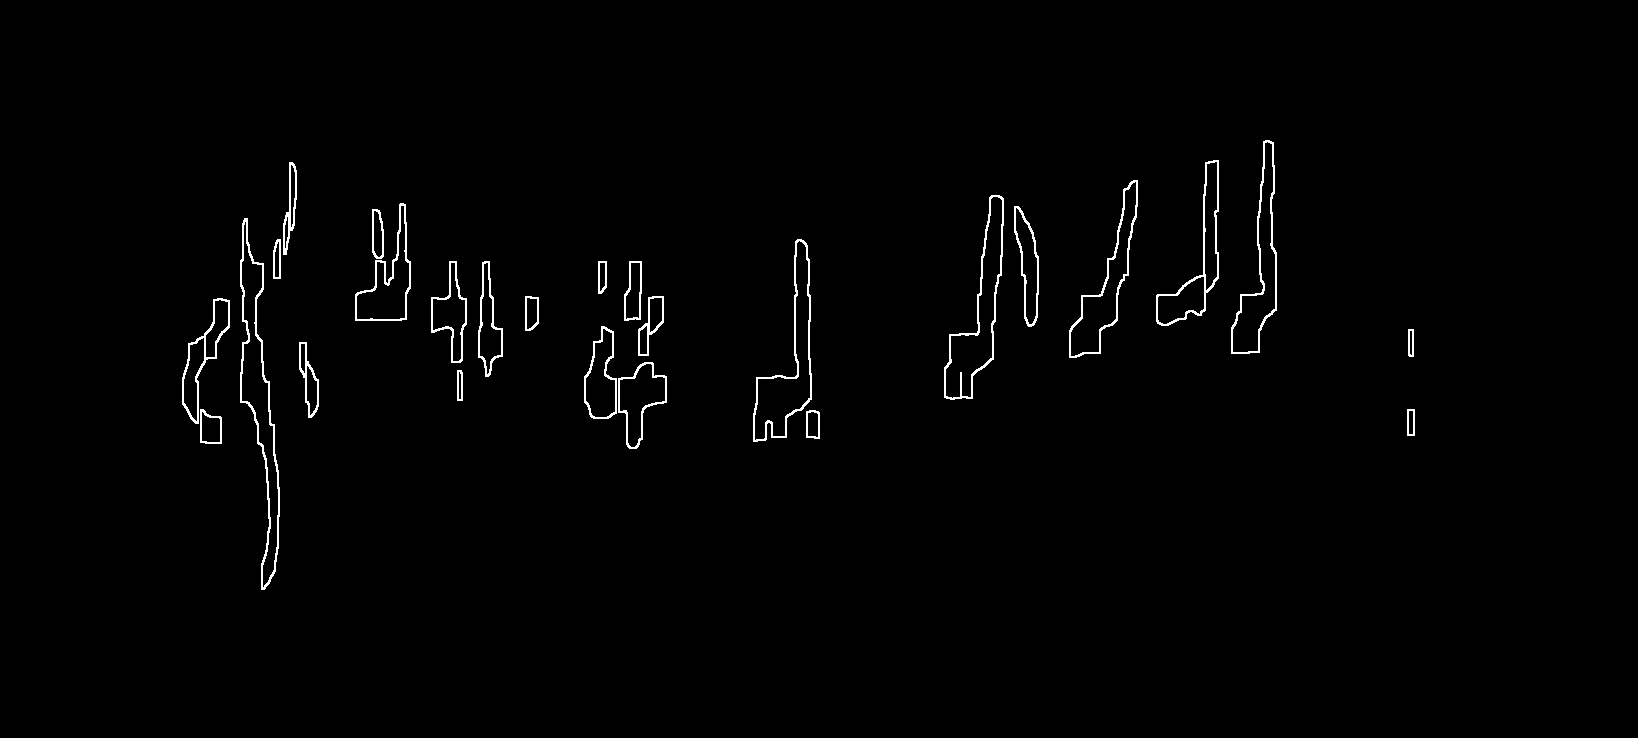
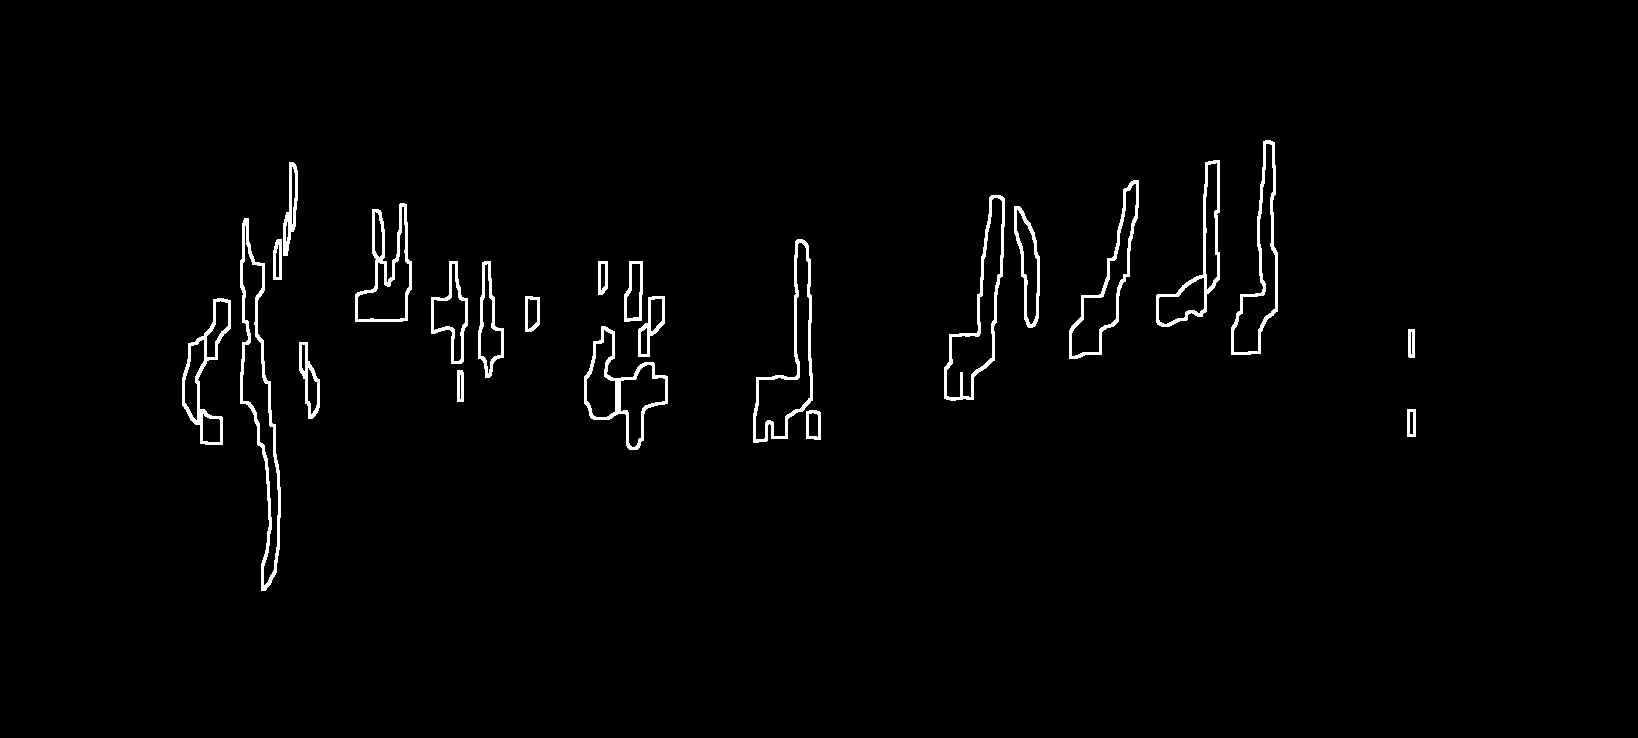
Delete second Gaussian filter

diff --git a/main.py b/main.py
@@ -76,7 +76,7 @@ cv2.imwrite(filename + '_edges.png', edges)
 # Step 2
 # , cv2.CV_8UC1)
 kernel = np.ones((2, 2), np.uint8)
-edges = cv2.dilate(edges, kernel)
+edges = cv2.dilate(edges, kernel, iterations=2)
 # show_img(edges, "dilate")
 cv2.imwrite(filename + '_dilate.png', edges)
 
@@ -84,9 +84,7 @@ cv2.imwrite(filename + '_dilate.png', edges)
 smooth = vertical.copy()
 
 # Step 4
-smooth = cv2.GaussianBlur(smooth, (9, 9), 0)
-# smooth = cv2.bilateralFilter(smooth, 9, 75, 75)
-# smooth = cv2.blur(smooth, (2, 2))
+smooth = cv2.blur(smooth, (4, 4))
 cv2.imwrite(filename + '_smooth_blur.png', smooth)
 
 vertical = smooth * (edges.astype(smooth.dtype))
